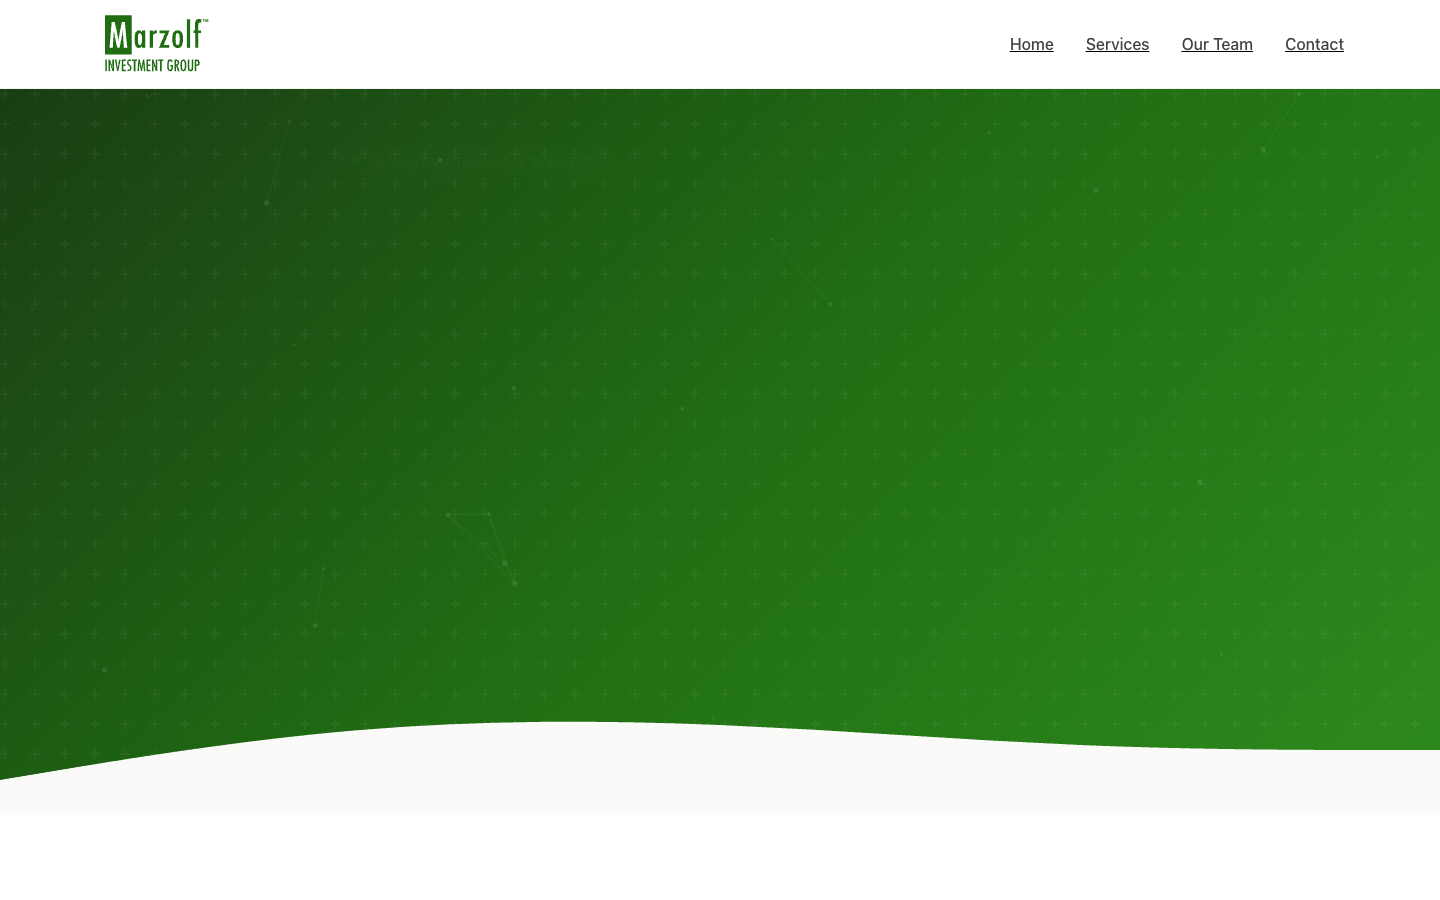
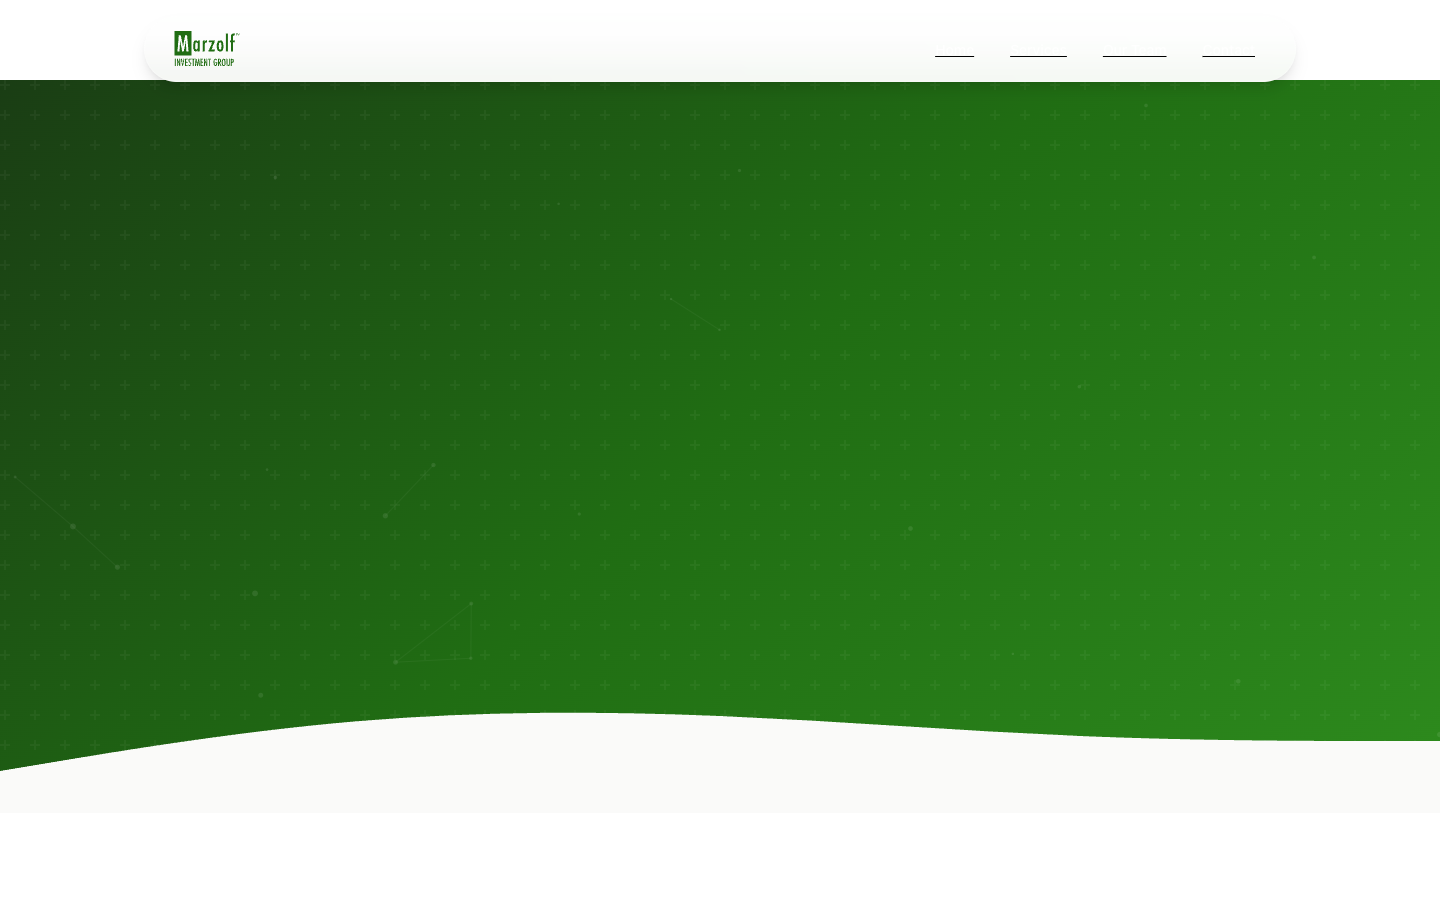
Implement floating pill-style header with glassmorphism, scroll color change, pill hover effects

Changed region(s): [[0.0, 0.0, 1.0, 0.1244], [0.0, 0.7778, 1.0, 0.8711], [0.6875, 0.0311, 0.7188, 0.0622]]

diff --git a/web/app/themes/marzolf-theme/resources/views/sections/header.blade.php b/web/app/themes/marzolf-theme/resources/views/sections/header.blade.php
@@ -1,24 +1,24 @@
-<header class="site-header bg-white/80 backdrop-blur-md border-b border-neutral-200/50 sticky top-0 z-50 transition-all duration-300" id="site-header">
-  <div class="container mx-auto px-4 py-3 flex justify-between items-center">
+<header class="site-header fixed top-4 left-1/2 -translate-x-1/2 z-50 w-[calc(100%-2rem)] max-w-6xl transition-all duration-500" id="site-header">
+  <div class="header-inner flex justify-between items-center px-6 py-3 rounded-full transition-all duration-500 bg-white/10 backdrop-blur-xl border border-white/20 shadow-lg">
     <a class="site-logo flex items-center no-underline group" href="{{ home_url('/') }}">
-      <img src="{{ get_theme_file_uri('resources/images/logo_marzolf-investment-group.svg') }}" alt="{{ $siteName }}" class="h-16 w-auto transition-transform duration-300 group-hover:scale-105">
+      <img src="{{ get_theme_file_uri('resources/images/logo_marzolf-investment-group.svg') }}" alt="{{ $siteName }}" class="h-10 w-auto transition-transform duration-300 group-hover:scale-105">
     </a>
 
     @if (has_nav_menu('primary_navigation'))
-      <nav class="main-nav hidden md:block" aria-label="{{ wp_get_nav_menu_name('primary_navigation') }}">
+      <nav class="main-nav hidden md:flex items-center gap-1" aria-label="{{ wp_get_nav_menu_name('primary_navigation') }}">
         {!! wp_nav_menu([
           'theme_location' => 'primary_navigation',
-          'menu_class' => 'nav flex gap-8',
+          'menu_class' => 'nav flex items-center gap-1',
           'echo' => false,
-          'link_before' => '<span class="nav-link relative font-medium transition-colors duration-300 no-underline py-2" style="color: var(--color-neutral-700);">',
-          'link_after' => '<span class="nav-underline absolute bottom-0 left-0 w-full h-0.5 transform scale-x-0 transition-transform duration-300 origin-left" style="background: var(--color-primary);"></span></span>',
+          'link_before' => '<span class="nav-link relative px-4 py-2 rounded-full text-sm font-medium transition-all duration-300 no-underline" style="color: rgba(255,255,255,0.9);">',
+          'link_after' => '</span>',
         ]) !!}
       </nav>
     @endif
     
     {{-- Mobile Menu Button --}}
-    <button class="md:hidden p-2" aria-label="Open menu">
-      <svg class="w-6 h-6" fill="none" stroke="currentColor" viewBox="0 0 24 24">
+    <button class="md:hidden p-2 rounded-full bg-white/10" aria-label="Open menu">
+      <svg class="w-6 h-6 text-white" fill="none" stroke="currentColor" viewBox="0 0 24 24">
         <path stroke-linecap="round" stroke-linejoin="round" stroke-width="2" d="M4 6h16M4 12h16M4 18h16"/>
       </svg>
     </button>
@@ -26,31 +26,114 @@
 </header>
 
 <style>
-  .nav-link:hover .nav-underline,
-  .nav-link:focus .nav-underline {
-    transform: scaleX(1);
+  /* Spacer for fixed header */
+  .header-spacer {
+    height: 80px;
   }
   
+  /* Nav link hover/active states */
+  .nav-link {
+    position: relative;
+    overflow: hidden;
+  }
+  
+  .nav-link::before {
+    content: '';
+    position: absolute;
+    inset: 0;
+    background: rgba(255, 255, 255, 0.15);
+    border-radius: 9999px;
+    opacity: 0;
+    transform: scale(0.8);
+    transition: all 0.3s ease;
+  }
+  
+  .nav-link:hover::before,
+  .nav-link:focus::before {
+    opacity: 1;
+    transform: scale(1);
+  }
+  
+  /* Active state */
+  .nav-link.active::before {
+    opacity: 1;
+    transform: scale(1);
+    background: rgba(255, 255, 255, 0.25);
+  }
+  
+  /* Scrolled state */
   .site-header.scrolled {
-    background: rgba(255, 255, 255, 0.95);
-    box-shadow: 0 4px 20px rgba(0, 0, 0, 0.08);
+    top: 1rem;
+  }
+  
+  .site-header.scrolled .header-inner {
+    background: rgba(32, 109, 19, 0.95);
+    border-color: rgba(255, 255, 255, 0.1);
+    box-shadow: 0 10px 40px rgba(0, 0, 0, 0.2);
+  }
+  
+  .site-header.scrolled .nav-link {
+    color: rgba(255, 255, 255, 0.95) !important;
+  }
+  
+  /* Initial transparent state - over hero */
+  .site-header.initial .nav-link {
+    color: rgba(255, 255, 255, 0.95) !important;
+  }
+  
+  .site-header.initial .header-inner {
+    background: rgba(255, 255, 255, 0.1);
   }
 </style>
 
 <script>
-  // Header scroll effect
-  const header = document.getElementById('site-header');
-  let lastScroll = 0;
-  
-  window.addEventListener('scroll', () => {
-    const currentScroll = window.pageYOffset;
+  document.addEventListener('DOMContentLoaded', () => {
+    const header = document.getElementById('site-header');
+    const hero = document.querySelector('.hero');
     
-    if (currentScroll > 50) {
-      header.classList.add('scrolled');
-    } else {
-      header.classList.remove('scrolled');
+    function updateHeader() {
+      const scrollY = window.pageYOffset;
+      const heroBottom = hero ? hero.offsetTop + hero.offsetHeight : 500;
+      
+      if (scrollY > 100) {
+        header.classList.add('scrolled');
+        header.classList.remove('initial');
+      } else {
+        header.classList.remove('scrolled');
+        header.classList.add('initial');
+      }
     }
     
-    lastScroll = currentScroll;
+    // Initial state
+    header.classList.add('initial');
+    
+    // Scroll listener
+    window.addEventListener('scroll', updateHeader, { passive: true });
+    updateHeader();
+    
+    // Active nav highlighting based on scroll position
+    const sections = ['services', 'team', 'contact'];
+    const navLinks = document.querySelectorAll('.nav-link');
+    
+    function highlightNav() {
+      const scrollPos = window.pageYOffset + 200;
+      
+      sections.forEach((sectionId, index) => {
+        const section = document.getElementById(sectionId);
+        if (section) {
+          const top = section.offsetTop;
+          const bottom = top + section.offsetHeight;
+          
+          if (scrollPos >= top && scrollPos < bottom) {
+            navLinks.forEach(link => link.classList.remove('active'));
+            if (navLinks[index + 1]) { // +1 because Home is first
+              navLinks[index + 1].classList.add('active');
+            }
+          }
+        }
+      });
+    }
+    
+    window.addEventListener('scroll', highlightNav, { passive: true });
   });
 </script>

diff --git a/web/app/themes/marzolf-theme/resources/views/layouts/app.blade.php b/web/app/themes/marzolf-theme/resources/views/layouts/app.blade.php
@@ -19,6 +19,8 @@
 
       @include('sections.header')
 
+      <div class="header-spacer"></div>
+
       <main id="main" class="main">
         @yield('content')
       </main>
